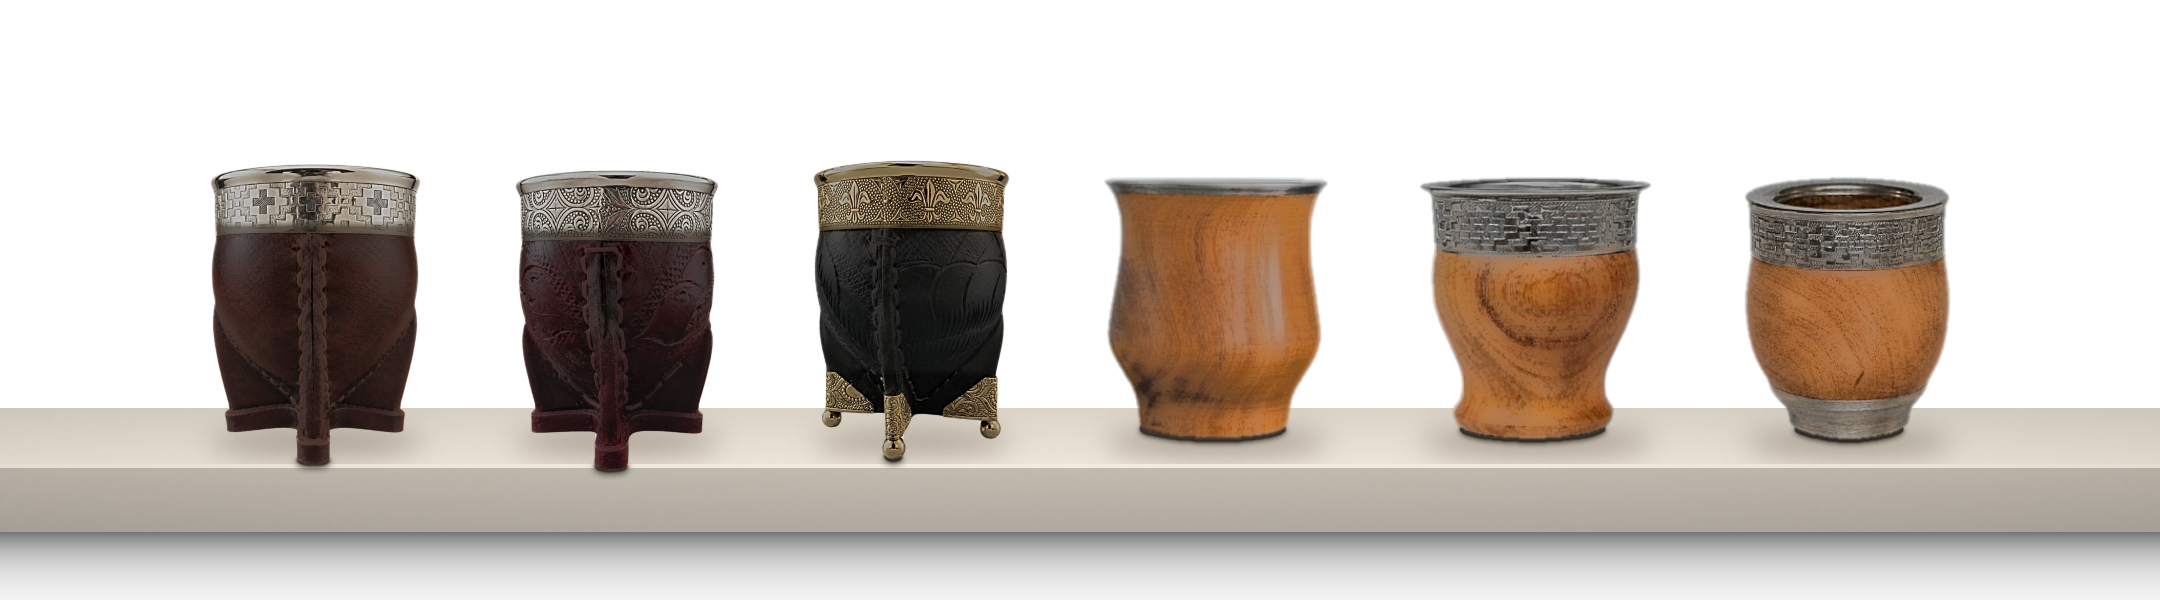
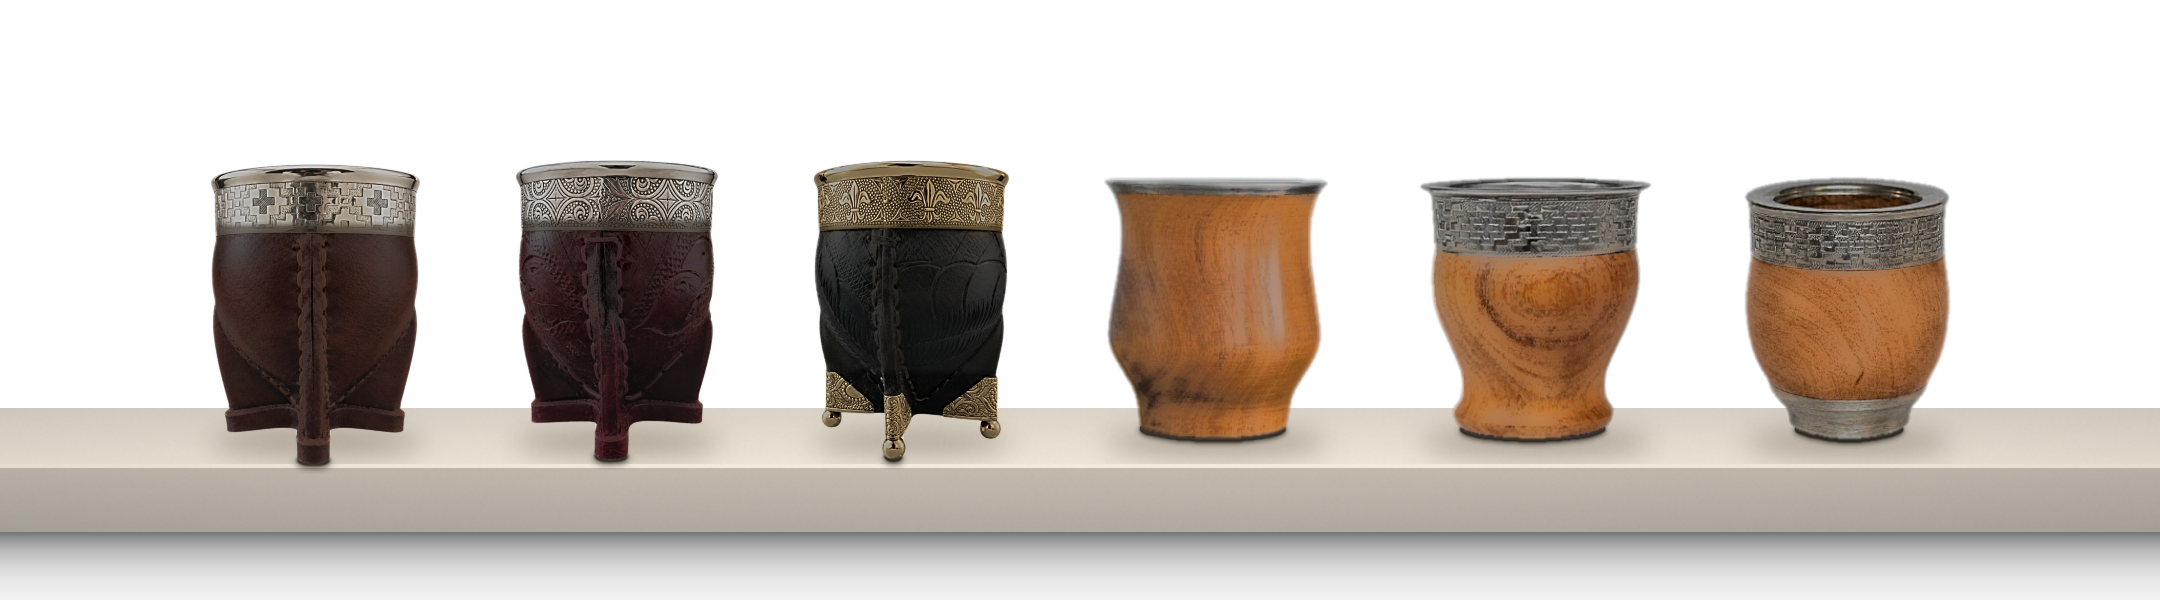
Historia empresas B: el repujado a la altura de los demás
Claude-Session: https://claude.ai/code/session_012H3xPSmbqKoMmc2aK7okNH

diff --git a/src/Root.tsx b/src/Root.tsx
@@ -455,7 +455,7 @@ export const RemotionRoot: React.FC = () => {
           // pata de adelante queda más abajo que el piso real.
           //   python tools/estudio_mates.py public/estudio-mates.png 1080 300 220 100 \
           //     public/recortes/calabaza-simple.png:150:12 \
-          //     public/recortes/calabaza-repujado.png:150:15 \
+          //     public/recortes/calabaza-repujado.png:150:10 \
           //     public/recortes/calabaza-base-bolita.png:150:10 \
           //     public/recortes/algarrobo-camionero.png:132:0 \
           //     public/recortes/algarrobo-imperial.png:132:0 \
